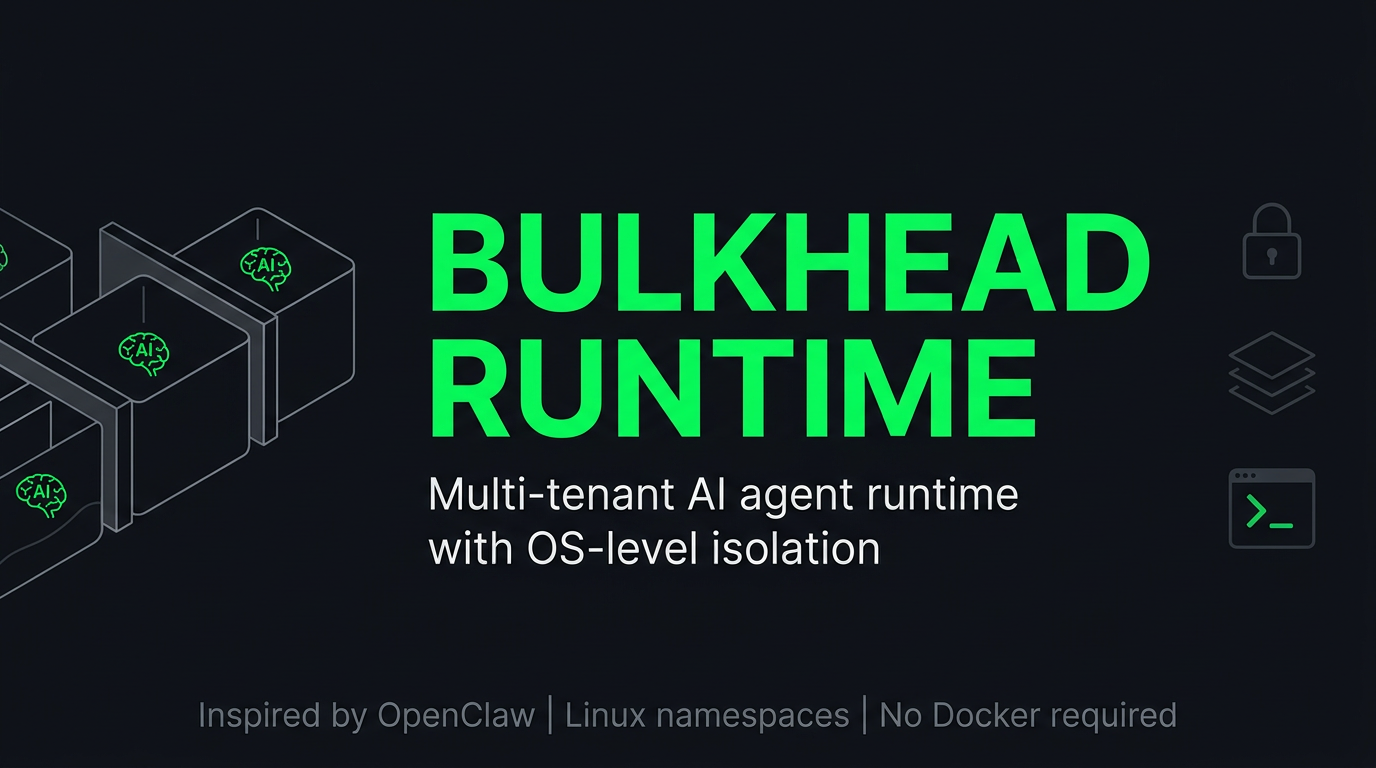
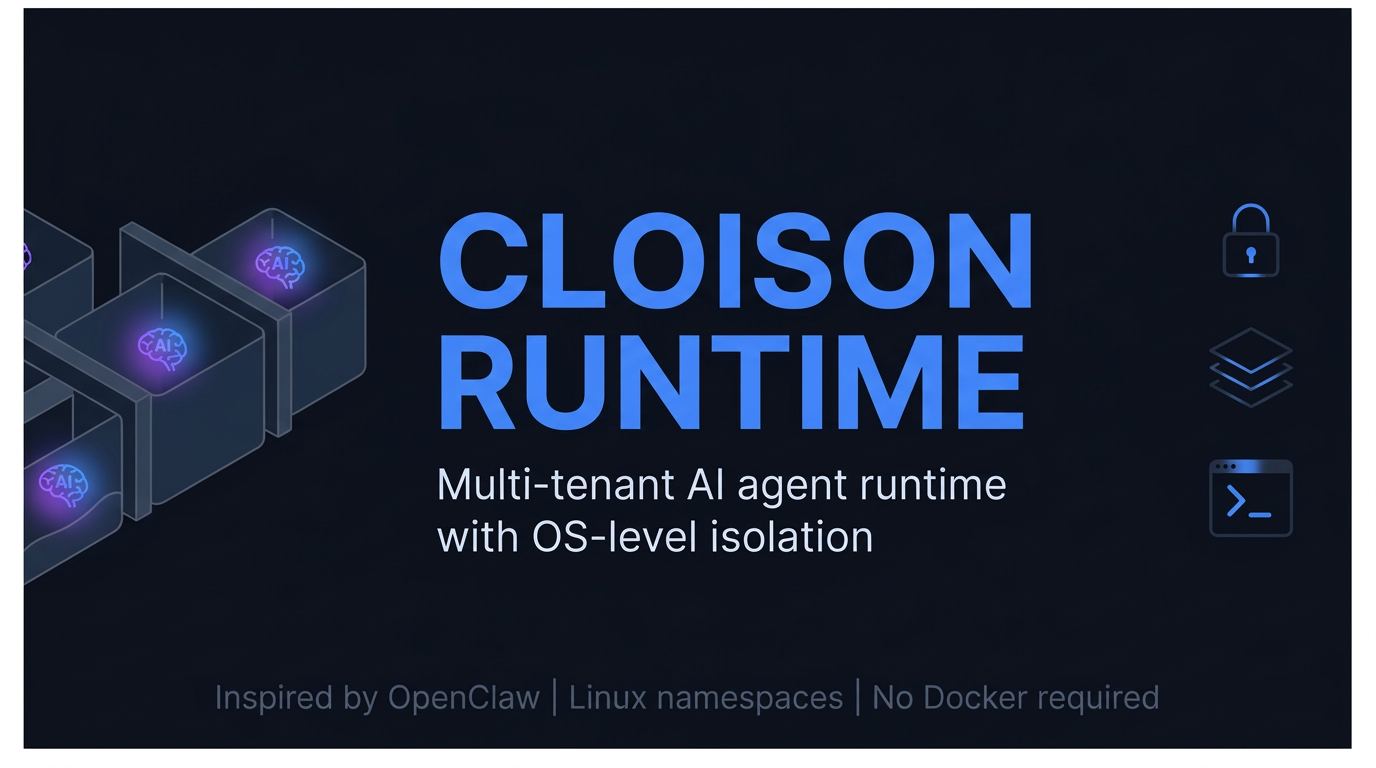
rebrand: rename Bulkhead Runtime to Cloison Runtime
- Rename package from bulkhead-runtime to cloison-runtime
- Update all env vars: BULKHEAD_* → CLOISON_*
- Update all temp paths, cgroup paths, log prefixes
- Update README, docs, demos, tests
- Update hero banner with new palette
- Add .context/brand.md with color palette
- Set version to 0.1.0 for fresh npm publish

Made-with: Cursor

diff --git a/src/runtime/api-key-rotation.ts b/src/runtime/api-key-rotation.ts
@@ -19,25 +19,25 @@ type ProviderApiKeyConfig = {
 
 const PROVIDER_API_KEY_CONFIG: Record<string, Omit<ProviderApiKeyConfig, "fallbackVars">> = {
   anthropic: {
-    liveSingle: "BULKHEAD_LIVE_ANTHROPIC_KEY",
-    listVar: "BULKHEAD_LIVE_ANTHROPIC_KEYS",
+    liveSingle: "CLOISON_LIVE_ANTHROPIC_KEY",
+    listVar: "CLOISON_LIVE_ANTHROPIC_KEYS",
     primaryVar: "ANTHROPIC_API_KEY",
     prefixedVar: "ANTHROPIC_API_KEY_",
   },
   google: {
-    liveSingle: "BULKHEAD_LIVE_GEMINI_KEY",
+    liveSingle: "CLOISON_LIVE_GEMINI_KEY",
     listVar: "GEMINI_API_KEYS",
     primaryVar: "GEMINI_API_KEY",
     prefixedVar: "GEMINI_API_KEY_",
   },
   "google-vertex": {
-    liveSingle: "BULKHEAD_LIVE_GEMINI_KEY",
+    liveSingle: "CLOISON_LIVE_GEMINI_KEY",
     listVar: "GEMINI_API_KEYS",
     primaryVar: "GEMINI_API_KEY",
     prefixedVar: "GEMINI_API_KEY_",
   },
   openai: {
-    liveSingle: "BULKHEAD_LIVE_OPENAI_KEY",
+    liveSingle: "CLOISON_LIVE_OPENAI_KEY",
     listVar: "OPENAI_API_KEYS",
     primaryVar: "OPENAI_API_KEY",
     prefixedVar: "OPENAI_API_KEY_",
@@ -69,7 +69,7 @@ function resolveProviderApiKeyConfig(provider: string): ProviderApiKeyConfig {
   const custom = PROVIDER_API_KEY_CONFIG[normalized];
   const base = PROVIDER_PREFIX_OVERRIDES[normalized] ?? normalized.toUpperCase().replace(/-/g, "_");
 
-  const liveSingle = custom?.liveSingle ?? `BULKHEAD_LIVE_${base}_KEY`;
+  const liveSingle = custom?.liveSingle ?? `CLOISON_LIVE_${base}_KEY`;
   const listVar = custom?.listVar ?? `${base}_API_KEYS`;
   const primaryVar = custom?.primaryVar ?? `${base}_API_KEY`;
   const prefixedVar = custom?.prefixedVar ?? `${base}_API_KEY_`;

diff --git a/src/logging/subsystem.ts b/src/logging/subsystem.ts
@@ -58,13 +58,13 @@ export type SubsystemLogger = {
 
 // --- Rolling log files (from logger.ts) ---
 
-const LOG_PREFIX = "bulkhead-runtime";
+const LOG_PREFIX = "cloison-runtime";
 const LOG_SUFFIX = ".log";
 const MAX_LOG_AGE_MS = 24 * 60 * 60 * 1000;
 const DEFAULT_MAX_LOG_FILE_BYTES = 500 * 1024 * 1024;
 
 function resolveDefaultLogDir(): string {
-  return path.join(os.tmpdir(), "bulkhead-runtime-logs");
+  return path.join(os.tmpdir(), "cloison-runtime-logs");
 }
 
 function formatLocalDate(date: Date): string {
@@ -124,13 +124,13 @@ export function configureLogger(config: LoggerConfig): void {
 
 function getFileLevel(): LogLevel {
   if (globalConfig.level) return globalConfig.level;
-  const env = process.env["BULKHEAD_LOG_LEVEL"] ?? process.env["LOG_LEVEL"] ?? "";
+  const env = process.env["CLOISON_LOG_LEVEL"] ?? process.env["LOG_LEVEL"] ?? "";
   return tryParseLogLevel(env) ?? "info";
 }
 
 function getConsoleLevel(): LogLevel {
   if (globalConfig.consoleLevel) return globalConfig.consoleLevel;
-  const env = process.env["BULKHEAD_CONSOLE_LOG_LEVEL"] ?? "";
+  const env = process.env["CLOISON_CONSOLE_LOG_LEVEL"] ?? "";
   return tryParseLogLevel(env) ?? "warn";
 }
 
@@ -139,7 +139,7 @@ function getConsoleStyle(): "pretty" | "compact" | "json" {
 }
 
 function resolveLogFile(): string {
-  return globalConfig.file ?? process.env["BULKHEAD_LOG_FILE"] ?? defaultRollingPathForToday();
+  return globalConfig.file ?? process.env["CLOISON_LOG_FILE"] ?? defaultRollingPathForToday();
 }
 
 function getMaxFileBytes(): number {

diff --git a/tests/rootfs.test.ts b/tests/rootfs.test.ts
@@ -195,7 +195,7 @@ describe("buildMountScript", () => {
       ).toThrow("resolves outside rootDir");
     } finally {
       fs.rmSync(wsDir, { recursive: true, force: true });
-      const rootDir = path.join(os.tmpdir(), "bulkhead-runtime-rootfs", "test-traversal");
+      const rootDir = path.join(os.tmpdir(), "cloison-runtime-rootfs", "test-traversal");
       fs.rmSync(rootDir, { recursive: true, force: true });
     }
   });
@@ -214,7 +214,7 @@ describe("buildMountScript", () => {
       ).toThrow("sensitive host path");
     } finally {
       fs.rmSync(wsDir, { recursive: true, force: true });
-      const rootDir = path.join(os.tmpdir(), "bulkhead-runtime-rootfs", "test-sensitive");
+      const rootDir = path.join(os.tmpdir(), "cloison-runtime-rootfs", "test-sensitive");
       fs.rmSync(rootDir, { recursive: true, force: true });
     }
   });
@@ -233,7 +233,7 @@ describe("buildMountScript", () => {
       ).toThrow("does not exist");
     } finally {
       fs.rmSync(wsDir, { recursive: true, force: true });
-      const rootDir = path.join(os.tmpdir(), "bulkhead-runtime-rootfs", "test-noexist");
+      const rootDir = path.join(os.tmpdir(), "cloison-runtime-rootfs", "test-noexist");
       fs.rmSync(rootDir, { recursive: true, force: true });
     }
   });

diff --git a/demos/demo-workspace-real.ts b/demos/demo-workspace-real.ts
@@ -21,15 +21,15 @@
  *   - Credential isolation
  *   - Full tenant isolation (Alpha can't see Beta's data)
  *
- * Run: GEMINI_API_KEY=... BULKHEAD_CREDENTIAL_KEY=demo npx tsx demos/demo-workspace-real.ts
+ * Run: GEMINI_API_KEY=... CLOISON_CREDENTIAL_KEY=demo npx tsx demos/demo-workspace-real.ts
  */
 import { createPlatform } from "../src/platform/index.js";
 import { createRuntime, type AgentRunResult } from "../src/runtime/index.js";
 import * as fs from "node:fs";
 import * as path from "node:path";
 
-const PROVIDER = process.env["BULKHEAD_PROVIDER"] ?? "google";
-const MODEL = process.env["BULKHEAD_MODEL"] ?? "gemini-2.5-flash";
+const PROVIDER = process.env["CLOISON_PROVIDER"] ?? "google";
+const MODEL = process.env["CLOISON_MODEL"] ?? "gemini-2.5-flash";
 const STATE_DIR = path.join(import.meta.dirname, "..", ".workspace-demo");
 
 fs.rmSync(STATE_DIR, { recursive: true, force: true });
@@ -41,7 +41,7 @@ async function main() {
 
   const platform = createPlatform({
     stateDir: STATE_DIR,
-    credentialPassphrase: process.env["BULKHEAD_CREDENTIAL_KEY"] ?? "demo-key",
+    credentialPassphrase: process.env["CLOISON_CREDENTIAL_KEY"] ?? "demo-key",
   });
 
   const skillsDir = path.join(import.meta.dirname, "skills");

diff --git a/src/config/index.ts b/src/config/index.ts
@@ -52,12 +52,12 @@ export interface AgentRuntimeConfig {
 }
 
 export function getDefaultStateDir(): string {
-  return path.join(os.homedir(), ".bulkhead-runtime");
+  return path.join(os.homedir(), ".cloison-runtime");
 }
 
 export function loadConfig(configPath?: string): AgentRuntimeConfig {
-  const explicit = configPath ?? process.env["BULKHEAD_CONFIG_PATH"];
-  const resolved = explicit ?? path.join(getDefaultStateDir(), "bulkhead-runtime.json");
+  const explicit = configPath ?? process.env["CLOISON_CONFIG_PATH"];
+  const resolved = explicit ?? path.join(getDefaultStateDir(), "cloison-runtime.json");
 
   try {
     const raw = fs.readFileSync(resolved, "utf-8");
@@ -74,7 +74,7 @@ export function loadConfig(configPath?: string): AgentRuntimeConfig {
 export function resolveStateDir(config: AgentRuntimeConfig): string {
   return (
     config.stateDir ??
-    process.env["BULKHEAD_STATE_DIR"] ??
+    process.env["CLOISON_STATE_DIR"] ??
     getDefaultStateDir()
   );
 }

diff --git a/tests/credentials.test.ts b/tests/credentials.test.ts
@@ -113,14 +113,14 @@ describe("CredentialStore", () => {
   });
 
   it("throws when no passphrase is available", () => {
-    delete process.env["BULKHEAD_CREDENTIAL_KEY"];
+    delete process.env["CLOISON_CREDENTIAL_KEY"];
     expect(() => createCredentialStore({ workspaceDir: tmpDir })).toThrow(
       "Credential store requires a passphrase",
     );
   });
 
   it("uses env var passphrase when none provided", async () => {
-    process.env["BULKHEAD_CREDENTIAL_KEY"] = "env-passphrase";
+    process.env["CLOISON_CREDENTIAL_KEY"] = "env-passphrase";
     try {
       const store = createCredentialStore({ workspaceDir: tmpDir });
       await store.store("test", { key: "value" });
@@ -129,7 +129,7 @@ describe("CredentialStore", () => {
       const result = await store2.resolve("test");
       expect(result).toEqual({ key: "value" });
     } finally {
-      delete process.env["BULKHEAD_CREDENTIAL_KEY"];
+      delete process.env["CLOISON_CREDENTIAL_KEY"];
     }
   });
 });

diff --git a/demos/_shared.ts b/demos/_shared.ts
@@ -2,8 +2,8 @@ import { createRuntime, type AgentRuntime } from "../src/runtime/index.js";
 import * as fs from "node:fs";
 import * as path from "node:path";
 
-export const PROVIDER = process.env["BULKHEAD_PROVIDER"] ?? "google";
-export const MODEL = process.env["BULKHEAD_MODEL"] ?? "gemini-2.5-flash";
+export const PROVIDER = process.env["CLOISON_PROVIDER"] ?? "google";
+export const MODEL = process.env["CLOISON_MODEL"] ?? "gemini-2.5-flash";
 export const API_KEY = process.env["GEMINI_API_KEY"] ?? "";
 
 export async function initRuntime(
@@ -18,6 +18,6 @@ export async function initRuntime(
 }
 
 export function cleanState() {
-  const stateDir = path.join(import.meta.dirname, "..", ".bulkhead-runtime-demo");
+  const stateDir = path.join(import.meta.dirname, "..", ".cloison-runtime-demo");
   fs.rmSync(stateDir, { recursive: true, force: true });
 }

diff --git a/demos/demo-sandbox-capabilities.ts b/demos/demo-sandbox-capabilities.ts
@@ -39,13 +39,13 @@ async function main() {
     console.log("  → Agents run inside isolated rootfs with coding tools (read/write/edit/bash)");
     console.log("  → Each agent gets: user ns + mount ns + PID ns + cgroups v2");
   } else {
-    console.log("  → ERROR: Bulkhead Runtime requires Linux with namespace support.");
+    console.log("  → ERROR: Cloison Runtime requires Linux with namespace support.");
     console.log("  → Run inside Docker: docker compose run dev");
   }
 
   // --- Credential encryption ---
   console.log("\n--- Credential Encryption (AES-256-GCM + PBKDF2) ---");
-  const tmpDir = path.join(os.tmpdir(), `bulkhead-runtime-cred-demo-${Date.now()}`);
+  const tmpDir = path.join(os.tmpdir(), `cloison-runtime-cred-demo-${Date.now()}`);
   fs.mkdirSync(tmpDir, { recursive: true });
 
   const store = createCredentialStore({

diff --git a/tests/sandbox.test.ts b/tests/sandbox.test.ts
@@ -32,7 +32,7 @@ describe("detectCapabilities", () => {
     });
   } else {
     it("throws on non-Linux platforms", async () => {
-      await expect(detectCapabilities()).rejects.toThrow("Bulkhead Runtime requires Linux");
+      await expect(detectCapabilities()).rejects.toThrow("Cloison Runtime requires Linux");
     });
   }
 });
@@ -110,7 +110,7 @@ describe("environment sanitization", () => {
       /^ANTHROPIC_/,
       /^GEMINI_/,
       /^GOOGLE_/,
-      /^BULKHEAD_CREDENTIAL/,
+      /^CLOISON_CREDENTIAL/,
     ];
 
     const dangerousVars = [
@@ -123,7 +123,7 @@ describe("environment sanitization", () => {
       "DATABASE_PASSWORD",
       "MY_SECRET",
       "AUTH_TOKEN",
-      "BULKHEAD_CREDENTIAL_KEY",
+      "CLOISON_CREDENTIAL_KEY",
     ];
 
     for (const envVar of dangerousVars) {

diff --git a/demos/demo-subagents.ts b/demos/demo-subagents.ts
@@ -15,7 +15,7 @@ import { loadSessionStore } from "../src/sessions/index.js";
 async function main() {
   cleanState();
 
-  const runtime = await initRuntime({ stateDir: ".bulkhead-runtime-demo" });
+  const runtime = await initRuntime({ stateDir: ".cloison-runtime-demo" });
 
   const subagentLog: { role: string; question: string; answer: string }[] = [];
 
@@ -85,7 +85,7 @@ async function main() {
   }
 
   console.log("=== All sessions ===\n");
-  const store = loadSessionStore(".bulkhead-runtime-demo");
+  const store = loadSessionStore(".cloison-runtime-demo");
   const sessions = Object.values(store.entries)
     .filter((e) => e.id.startsWith("orchestrator") || e.id.startsWith("specialist"))
     .sort((a, b) => new Date(a.createdAt).getTime() - new Date(b.createdAt).getTime());

diff --git a/demos/demo-sessions.ts b/demos/demo-sessions.ts
@@ -17,7 +17,7 @@ async function main() {
   cleanState();
 
   const runtime = await initRuntime({
-    stateDir: ".bulkhead-runtime-demo",
+    stateDir: ".cloison-runtime-demo",
     systemPrompt: "You are a concise assistant. Reply in 1-2 sentences.",
   });
 
@@ -65,7 +65,7 @@ async function main() {
   // --- Inspect session store ---
   console.log("\n=== Session store ===\n");
 
-  const store = loadSessionStore(".bulkhead-runtime-demo");
+  const store = loadSessionStore(".cloison-runtime-demo");
   const entries = Object.values(store.entries).sort(
     (a, b) => new Date(a.createdAt).getTime() - new Date(b.createdAt).getTime(),
   );

diff --git a/src/credentials/store.ts b/src/credentials/store.ts
@@ -79,11 +79,11 @@ export function createCredentialStore(
   const filePath = path.join(options.workspaceDir, "credentials.enc.json");
   const passphrase =
     options.passphrase ??
-    process.env["BULKHEAD_CREDENTIAL_KEY"];
+    process.env["CLOISON_CREDENTIAL_KEY"];
 
   if (!passphrase) {
     throw new Error(
-      "Credential store requires a passphrase: pass it explicitly or set BULKHEAD_CREDENTIAL_KEY",
+      "Credential store requires a passphrase: pass it explicitly or set CLOISON_CREDENTIAL_KEY",
     );
   }
 
